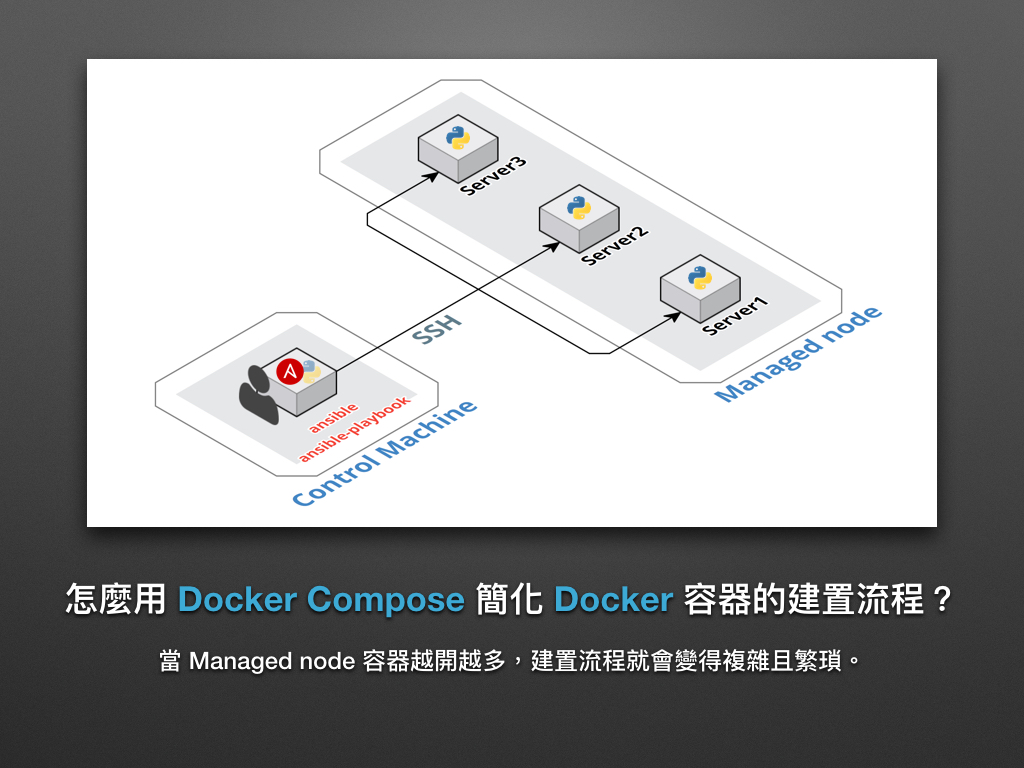
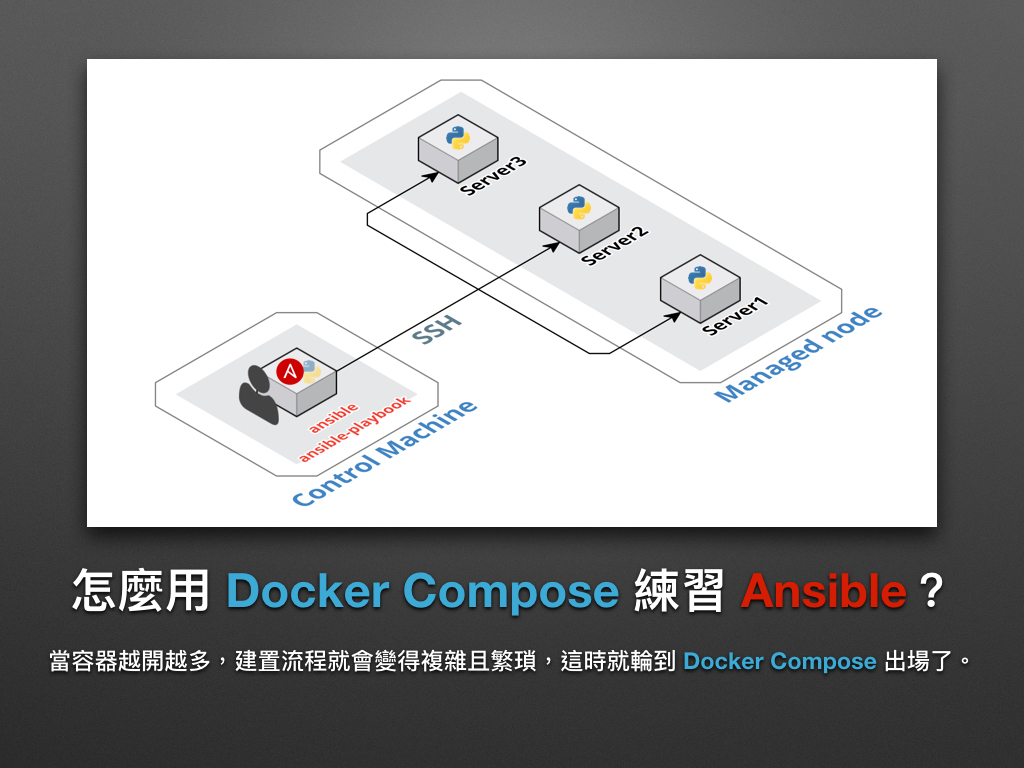
rename day9 post
有種終於幫這篇定稿的感覺！好險當初有拆開，結果也是寫超久的！

Changed region(s): [[0.0625, 0.7188, 0.9375, 0.8125], [0.0312, 0.8438, 0.9375, 0.875]]

diff --git a/09.how-to-practive-ansible-with-docker-compose.md b/09.how-to-practive-ansible-with-docker-compose.md
@@ -1,9 +1,8 @@
 # 現代 IT 人一定要知道的 Ansible 自動化組態技巧
 
-## 09. 怎麼用 Docker Compose 簡化 Docker 容器的建置流程？
+## 09. 怎麼用 Docker Compose 練習 Ansible？
 
-在前一章「[08. 怎麼用 Jupyter 操控 Ansible？(Managed node)](08.how-to-practive-ansible-with-jupyter2.md)」我們藉由 Docker 實作用 **Control Machine** 和 **Managed node** 的環境。雖看似完美，可當 Managed node 容器一多就會讓建置流程變得複雜且繁瑣，這次凍仁將改用 **Docker Compose** 來簡化其建置流程。
-
+在前一章「[08. 怎麼用 Jupyter 操控 Ansible？(Managed node)](08.how-to-practive-ansible-with-jupyter2.md)」我們藉由 Docker 實作用 **Control Machine** 和 **Managed node** 的環境。雖看似完美，可當容器一多就會讓建置環境的流程變得複雜且繁瑣，這次凍仁將改用 **Docker Compose** 來簡化練習 Ansible 的步驟。
 
 ![automate_with_ansible_practice-11.jpg](imgs/automate_with_ansible_practice-11.jpg)
 
@@ -64,7 +63,7 @@
   # -f, --force: Don't ask to confirm removal
   ```
 
-### 怎麼用 Docker Compose 建立練習環境？
+### 怎麼用 Docker Compose 建立 Ansible 環境？
 
 上一章我們開了 3 個 Docker 容器來實作 **Control Machine** (Jupyter, Ansible) + **Managed node***2 (CentOS 7, Ubuntu 14.04) 的環境，這次就再加一個 **server3** 的 Managed node (Debian 8) 吧。
 
@@ -149,8 +148,26 @@ control_machine_1  | [I 22:29:59.210 NotebookApp] Use Control-C to stop this ser
   ch09_server3_1           /usr/sbin/sshd -D                Up      0.0.0.0:2222->22/tcp
   ```
 
-3. 進入 Jupyter notebook 網站 (http://localhost:8888/)。
-4. 修改 `inventory` 檔案，並填入步驟 1 取得的 IP 和步驟 2 取得的 OpenSSH port。
+3. 進入 Jupyter notebook 網站 ([http://localhost:8888/][jupyter_website])。
+4. 若不想透過 Jupyter 操作 Ansible，可直接進入容器裡操作，但要記得切換到 `/home` 目錄底下。
+
+  ```
+  # 從 Host OS 進入容器。
+  $ docker exec -it ch09_control_machine_1 sh
+  / #
+
+  # 切換目錄。
+  / # cd /home
+
+  # 列出 /home 底下的檔案。
+  /home # ls -1
+  ansible.cfg
+  ansible_on_jupyter.ipynb
+  inventory
+  setup_jupyter.yml
+  ```
+
+5. 修改 `inventory` 檔案，並填入步驟 1 取得的 IP 和步驟 2 取得的 OpenSSH port。
 
   ```
   server1  ansible_ssh_host=192.168.1.104  ansible_ssh_port=2221
@@ -160,13 +177,26 @@ control_machine_1  | [I 22:29:59.210 NotebookApp] Use Control-C to stop this ser
 
   > 請勿在這個 Lab 使用 localhost 和 127.0.0.1 的位址，這會讓 Control Machine 一直對自己找 Managed node。在這裡我們是把 Managed node 的 OpenSSH port 綁在 Host OS [^1] 上，而不是 Control Machine 的容器裡。
 
-5. 環境建置完成！現在可以到 Control Managed (Jupyter + Ansible) 上對各個 Managed node (Ubuntu 14.04, CentOS 7, Debian 8) 進行操作了。
+[jupyter_website]: http://localhost:8888/
+
+6. 環境建置完成！現在可以到 Control Managed (Jupyter + Ansible) 上對各個 Managed node (Ubuntu 14.04, CentOS 7, Debian 8) 進行操作了。
+
+
+### Play Ansible
+
+現在我們可以透過 Ansible 操控 3 個 Managed node 了，記得把 inventory 的部份從 `localhost` 改成 `all` 喔！
+
+![2016-12-08-ansible-jupyter-ping.gif](imgs/2016-12-08-ansible-jupyter-ping.gif)
+
+
+### 後語
 
 改用 Docker Compose 管理容器後，我們可以一次對所有的容器進行操作。相信這在同一時間需執行多個容器的環境上會有很大的幫助！
 
 
 ### 相關連結
 
+- [05. 怎麼用 Docker 練習 Ansible？](05.how-to-practive-ansible-with-docker.md)
 - [`chusiang/ansible-jupyter` | Docker Hub][ansible_jupyter]
 - [`chusiang/ansible-managed-node` | Docker Hub][ansible_managed_node]
 

diff --git a/README.md b/README.md
@@ -21,7 +21,7 @@ Ansible 是個與 Puppet, SaltStack, Chef 並駕齊驅的組態設定 (Infrastru
 1. [怎麼操作 Ansible？](06.how-to-use-ansible.md)
 1. [怎麼用 Jupyter 操控 Ansible？(localhost)](07.how-to-practive-ansible-with-jupyter1.md)
 1. [怎麼用 Jupyter 操控 Ansible？(Managed node)](08.how-to-practive-ansible-with-jupyter2.md)
-1. [怎麼用 Docker Compose 簡化 Docker 容器的建置流程？](09.how-to-build-docker-container-with-docker-compose.md)
+1. [怎麼用 Docker Compose 練習 Ansible？](09.how-to-practive-ansible-with-docker-compose.md)
 
   > to be continued ...
 

diff --git a/SUMMARY.md b/SUMMARY.md
@@ -9,4 +9,4 @@
 1. [怎麼操作 Ansible？](06.how-to-use-ansible.md)
 1. [怎麼用 Jupyter 操控 Ansible？(localhost)](07.how-to-practive-ansible-with-jupyter1.md)
 1. [怎麼用 Jupyter 操控 Ansible？(Managed node)](08.how-to-practive-ansible-with-jupyter2.md)
-1. [怎麼用 Docker Compose 簡化 Docker 容器的建置流程？](09.how-to-build-docker-container-with-docker-compose.md)
+1. [怎麼用 Docker Compose 練習 Ansible？](09.how-to-practive-ansible-with-docker-compose.md)
